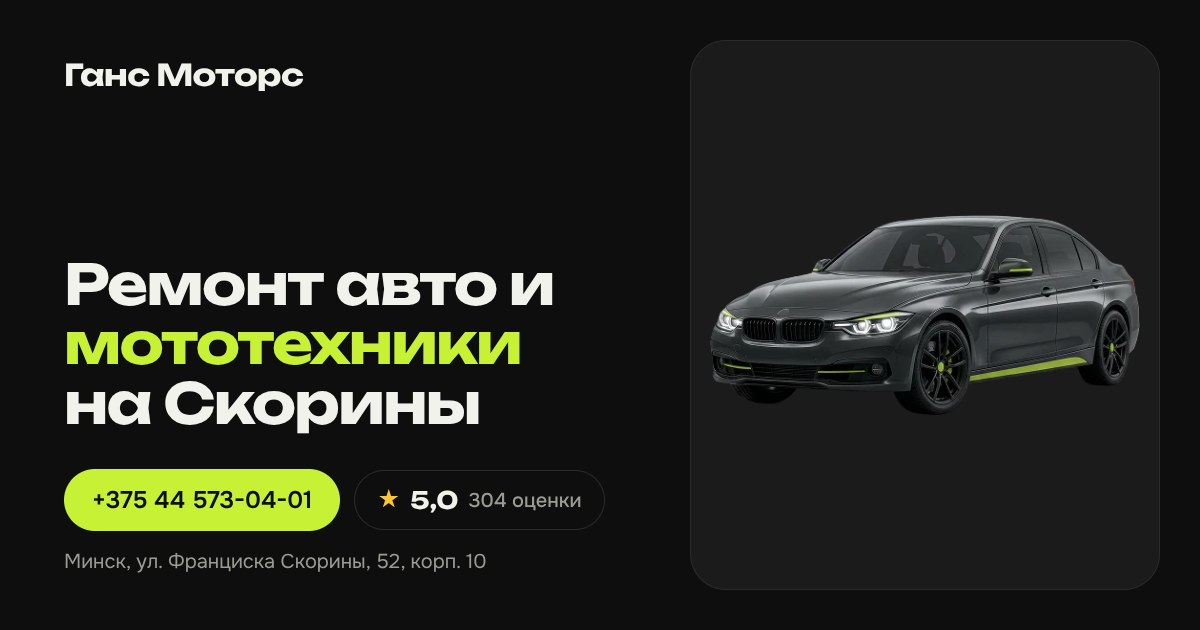
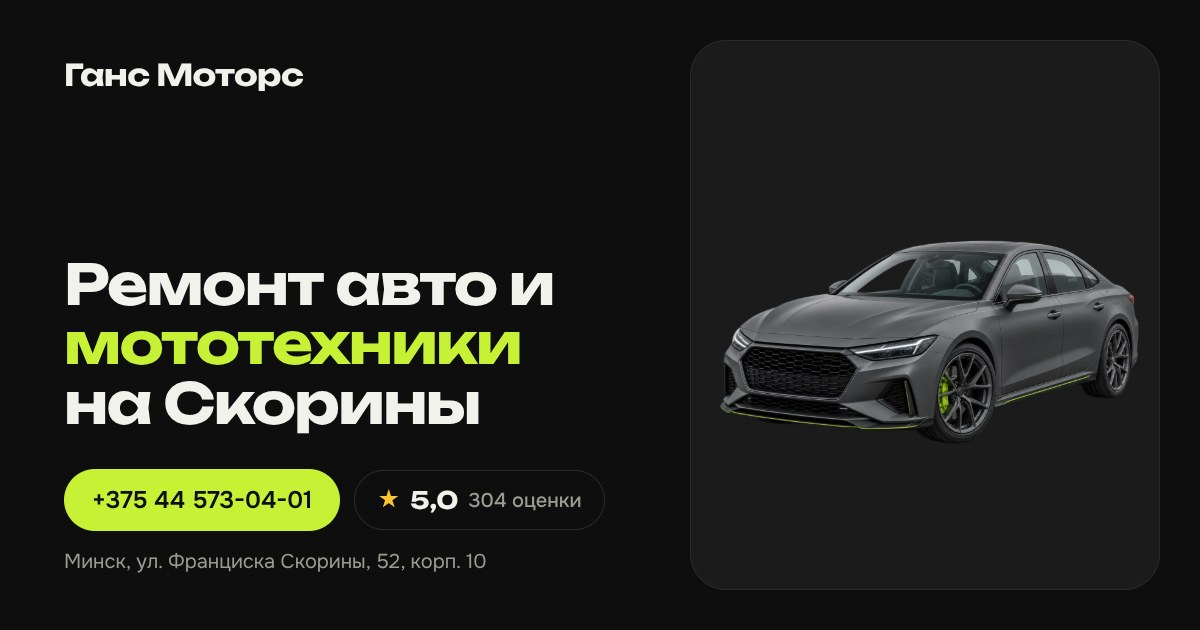
hero-sedan: новая машина в библиотеке, Ганс Моторс и Мой Механик

Changed region(s): [[0.5858, 0.3317, 0.9558, 0.6937]]

diff --git a/gans-motors/index.html b/gans-motors/index.html
@@ -14,11 +14,11 @@
 <meta property="og:url" content="https://d1trepes.github.io/sites/gans-motors/">
 <meta property="og:title" content="Ганс Моторс — автосервис и мотосервис на ул. Скорины, Минск">
 <meta property="og:description" content="Ремонт авто и мототехники, диагностика, шиномонтаж. Рейтинг 5,0 на Яндекс Картах.">
-<meta property="og:image" content="https://d1trepes.github.io/sites/gans-motors/img/og.jpg?v=84f5154c">
+<meta property="og:image" content="https://d1trepes.github.io/sites/gans-motors/img/og.jpg?v=24310483">
 <meta property="og:image:width" content="1200">
 <meta property="og:image:height" content="630">
 <meta name="twitter:card" content="summary_large_image">
-<link rel="preload" as="image" href="img/hero-car.webp" fetchpriority="high">
+<link rel="preload" as="image" href="img/hero-sedan.webp" fetchpriority="high">
 <link rel="preconnect" href="https://fonts.googleapis.com">
 <link rel="preconnect" href="https://fonts.gstatic.com" crossorigin>
 <link href="https://fonts.googleapis.com/css2?family=Onest:wght@400;500;600&family=Unbounded:wght@500;700&display=swap" rel="stylesheet">
@@ -30,7 +30,7 @@
   "@type": "AutoRepair",
   "name": "Ганс Моторс",
   "url": "https://d1trepes.github.io/sites/gans-motors/",
-  "image": "https://d1trepes.github.io/sites/gans-motors/img/og.jpg?v=84f5154c",
+  "image": "https://d1trepes.github.io/sites/gans-motors/img/og.jpg?v=24310483",
   "telephone": "+375445730401",
   "paymentAccepted": "Наличными и картой",
   "address": {
@@ -74,7 +74,7 @@
       
       <div class="trust rv" style="--d:0.3s"><b>5,0</b><div><span class="stars" aria-label="5 из 5"><svg viewBox="0 0 20 20" fill="currentColor" aria-hidden="true"><path d="M10 1.5l2.6 5.5 6 .7-4.5 4.1 1.2 5.9L10 14.8l-5.3 2.9 1.2-5.9L1.4 7.7l6-.7z"/></svg><svg viewBox="0 0 20 20" fill="currentColor" aria-hidden="true"><path d="M10 1.5l2.6 5.5 6 .7-4.5 4.1 1.2 5.9L10 14.8l-5.3 2.9 1.2-5.9L1.4 7.7l6-.7z"/></svg><svg viewBox="0 0 20 20" fill="currentColor" aria-hidden="true"><path d="M10 1.5l2.6 5.5 6 .7-4.5 4.1 1.2 5.9L10 14.8l-5.3 2.9 1.2-5.9L1.4 7.7l6-.7z"/></svg><svg viewBox="0 0 20 20" fill="currentColor" aria-hidden="true"><path d="M10 1.5l2.6 5.5 6 .7-4.5 4.1 1.2 5.9L10 14.8l-5.3 2.9 1.2-5.9L1.4 7.7l6-.7z"/></svg><svg viewBox="0 0 20 20" fill="currentColor" aria-hidden="true"><path d="M10 1.5l2.6 5.5 6 .7-4.5 4.1 1.2 5.9L10 14.8l-5.3 2.9 1.2-5.9L1.4 7.7l6-.7z"/></svg></span><span style="display:block;margin-top:4px">125 отзывов · 304 оценки на Яндекс Картах</span></div></div>
     </div>
-    <div class="car w rv" style="--d:0.15s"><img src="img/hero-car.webp" alt="Автомобиль — ремонт авто в автосервисе Ганс Моторс, Минск" fetchpriority="high"></div>
+    <div class="car w rv" style="--d:0.15s"><img src="img/hero-sedan.webp" alt="Автомобиль — ремонт авто в автосервисе Ганс Моторс, Минск" fetchpriority="high"></div>
   </div>
 </section>
 <section id="blok" class="notitle" style="padding-top:0"><div class="wrap">

diff --git a/moy-mehanik/index.html b/moy-mehanik/index.html
@@ -14,11 +14,11 @@
 <meta property="og:url" content="https://d1trepes.github.io/sites/moy-mehanik/">
 <meta property="og:title" content="Мой Механик — СТО на пр-те Машерова, Минск">
 <meta property="og:description" content="Ремонт и ТО авто, цены на сайте. Диагностика бесплатно при ремонте. Без выходных.">
-<meta property="og:image" content="https://d1trepes.github.io/sites/moy-mehanik/img/og.jpg?v=9d2c4d23">
+<meta property="og:image" content="https://d1trepes.github.io/sites/moy-mehanik/img/og.jpg?v=ecd7bbea">
 <meta property="og:image:width" content="1200">
 <meta property="og:image:height" content="630">
 <meta name="twitter:card" content="summary_large_image">
-<link rel="preload" as="image" href="img/hero-car.webp" fetchpriority="high">
+<link rel="preload" as="image" href="img/hero-sedan.webp" fetchpriority="high">
 <link rel="preconnect" href="https://fonts.googleapis.com">
 <link rel="preconnect" href="https://fonts.gstatic.com" crossorigin>
 <link href="https://fonts.googleapis.com/css2?family=Onest:wght@400;500;600&family=Unbounded:wght@500;700&display=swap" rel="stylesheet">
@@ -30,7 +30,7 @@
   "@type": "AutoRepair",
   "name": "Мой Механик",
   "url": "https://d1trepes.github.io/sites/moy-mehanik/",
-  "image": "https://d1trepes.github.io/sites/moy-mehanik/img/og.jpg?v=9d2c4d23",
+  "image": "https://d1trepes.github.io/sites/moy-mehanik/img/og.jpg?v=ecd7bbea",
   "telephone": "+375295562200",
   "address": {
     "@type": "PostalAddress",
@@ -84,7 +84,7 @@
       <div class="now rv" style="--d:0.25s" data-schedule='[{&quot;d&quot;:[1,2,3,4,5,6,7],&quot;from&quot;:8,&quot;to&quot;:20}]' hidden><i></i><span></span></div>
       
     </div>
-    <div class="car w rv" style="--d:0.15s"><img src="img/hero-car.webp" alt="Ремонт и обслуживание автомобилей — СТО «Мой Механик», Минск" fetchpriority="high"></div>
+    <div class="car w rv" style="--d:0.15s"><img src="img/hero-sedan.webp" alt="Ремонт и обслуживание автомобилей — СТО «Мой Механик», Минск" fetchpriority="high"></div>
   </div>
 </section>
 <section id="blok" class="notitle" style="padding-top:0"><div class="wrap">

diff --git a/tablica/index.html b/tablica/index.html
@@ -36,7 +36,7 @@ dl{display:flex;flex-wrap:wrap;gap:6px 18px;font-size:13px}dt{color:var(--mut);f
 .nt{font-size:13px;color:var(--mut);border-top:1px dashed var(--line);padding-top:10px}
 @media(max-width:760px){.kpi{grid-template-columns:repeat(2,1fr)}.grid{grid-template-columns:1fr}h1{font-size:26px}}
 </style></head><body><div class="w">
-<div class="top"><div><h1>Мои клиенты</h1><p>Сайты для автосервисов · обновлено 24 октября в 23:01</p></div></div>
+<div class="top"><div><h1>Мои клиенты</h1><p>Сайты для автосервисов · обновлено 24 октября в 23:09</p></div></div>
 <div class="kpi">
 <div class="k"><b>7</b><span>всего сервисов</span></div>
 <div class="k"><b>6</b><span>демо ждут звонка</span></div>

diff --git a/moy-mehanik/notes.md b/moy-mehanik/notes.md
@@ -6,3 +6,5 @@
 - Не включено, хотя есть в описании сайта (meta): «опыт 15 лет», «склад запчастей», «автоэлектрик» — подтвердить у владельца.
 - Спросить: логотип, фото сервиса, условия гарантии, условия скидок постоянным, как работает эвакуатор (цена), Instagram my_mehanik — дать ссылку на сайте?
 - На их сайте расходится цена рулевой тяги: 30 (популярное) и 35 (подвеска). На демо — «от 30», уточнить.
+
+- 2026-10-24: на первый экран поставлена новая машина hero-sedan.webp (вместо hero-car).

diff --git a/blank/КАРТИНКИ.md b/blank/КАРТИНКИ.md
@@ -20,6 +20,7 @@
 ## Уже в цвете — не перекрашиваются (только для такого же цвета сайта)
 | Файл | Цвет | Что на картинке |
 |---|---|---|
+| hero-sedan.webp | салатовый | графитовый седан без марки — первый экран (универсальный, замена hero-car) |
 | hero-turbo-red.webp | красный | турбина — первый экран (двигатели, турбины) |
 | hero-caliper-red.webp | красный | суппорт с диском — первый экран (тормоза, подвеска) |
 | gearbox-red.webp | красный | АКПП — услуги: трансмиссия |

diff --git a/gans-motors/notes.md b/gans-motors/notes.md
@@ -1,0 +1,2 @@
+
+- 2026-10-24: на первый экран поставлена новая машина hero-sedan.webp (вместо hero-car).
